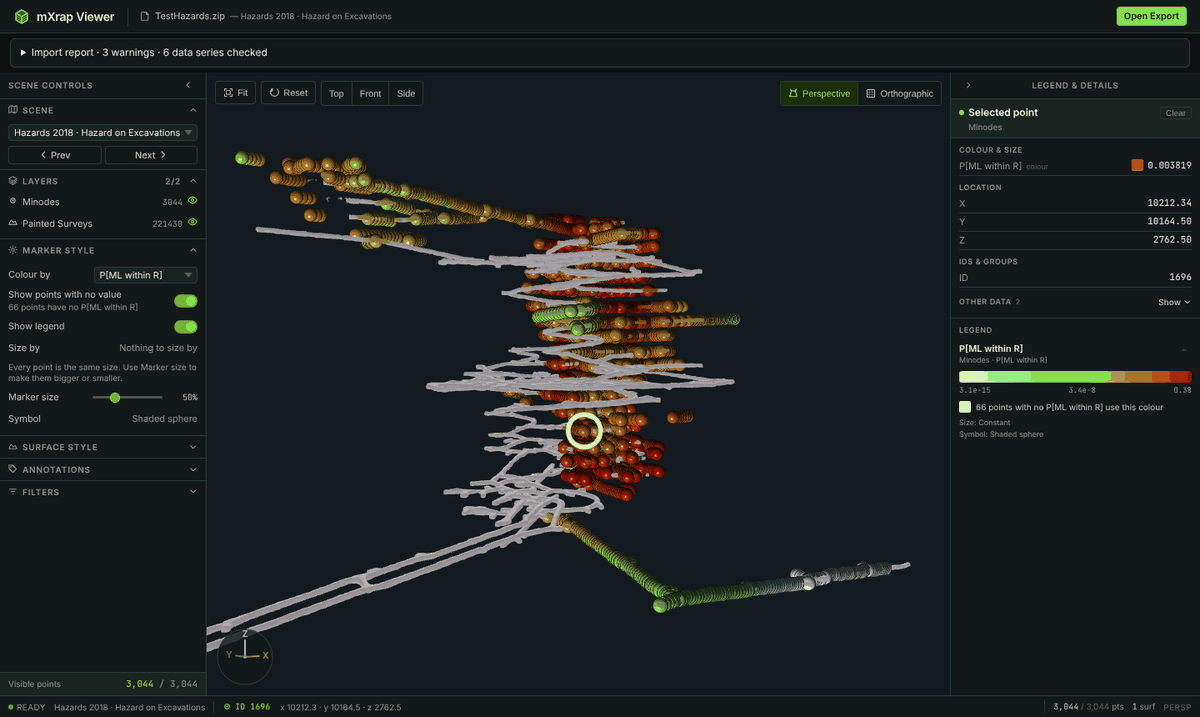
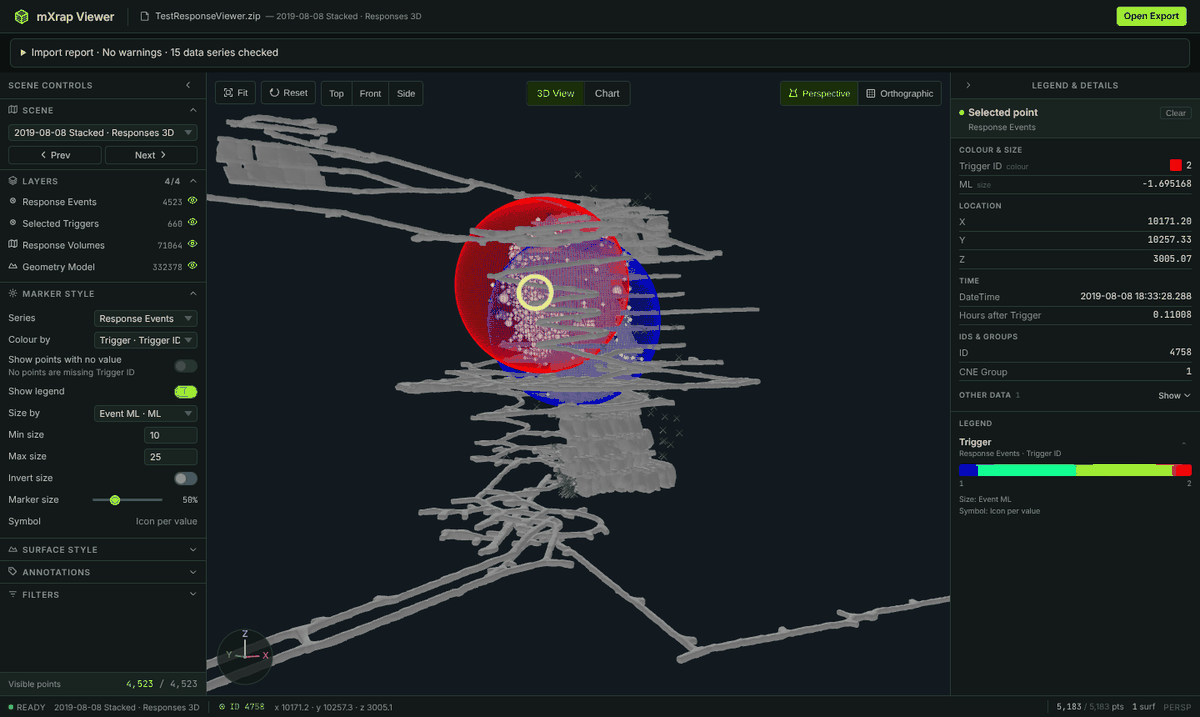
docs: show a selected event in the response-volume scene
The point details screenshot now uses TestResponseViewer's stacked
response scene, with its two response-volume spheres and the events
coloured by trigger.

diff --git a/docs/USER_GUIDE.md b/docs/USER_GUIDE.md
@@ -134,7 +134,7 @@ data**; click **Show** to open **Other data**. The status bar also shows the poi
 row in the data file when there is no ID column) and its X, Y, Z coordinates. Click **Clear** to
 deselect.
 
-![A selected point, ringed in the 3D view, with its details in the right panel](images/point-details.png)
+![The TestResponseViewer export with its response-volume spheres, coloured by trigger: a selected event is ringed and its details are in the right panel](images/point-details.png)
 
 ## 9. Legends
 
